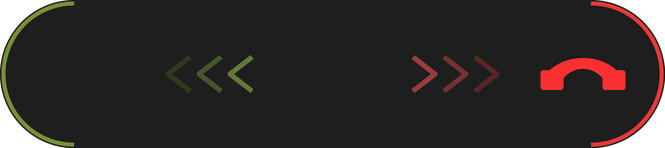
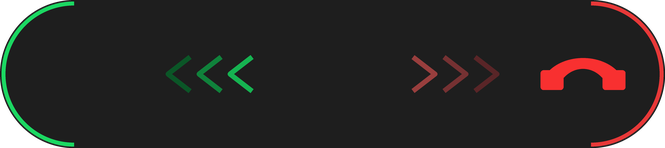
The call slider drags on its whole track, the call screen takes the primary colour (fix 7.4, 0.0.1.185)
On the Q10 the knob wouldn't slide: the drag is now the track's, with the knob's
implicit animation off and an explicit slide back, logged. The stock purple is
#1bd862's hue; ScalingMethod.Fill, refused on the phone, is AspectFit.

Claude-Session: https://claude.ai/code/session_01U6fsRnet8drYJdBsonSSBd

diff --git a/app/assets/CallSlider.qml b/app/assets/CallSlider.qml
@@ -11,6 +11,9 @@ Container {
     // Where the finger went down, in window px: the knob follows its distance from here, not the
     // finger's place on the knob, so it doesn't jump.
     property real startX: 0
+    // The knob's offset while dragged, kept here rather than read back from translationX.
+    property real at: 0
+    property bool dragging: false
     // The knob's centre to an end's icon is 260 px; it counts within 40 px of it.
     property real reach: px(260)
     property real grab: px(40)
@@ -23,7 +26,7 @@ Container {
     ImageView {
         preferredWidth: slider.px(665)
         preferredHeight: slider.px(148)
-        scalingMethod: ScalingMethod.Fill
+        scalingMethod: ScalingMethod.AspectFit
         imageSource: "asset:///images/call_track.png"
     }
     // The phone's own handset, tinted green (the track holds only the red one); 66 px centred
@@ -35,9 +38,9 @@ Container {
         }
         preferredWidth: slider.px(66)
         preferredHeight: slider.px(66)
-        scalingMethod: ScalingMethod.Fill
+        scalingMethod: ScalingMethod.AspectFit
         imageSource: "file:///usr/share/icons/ic_phone.png"
-        filterColor: Color.create("#709830")
+        filterColor: Color.create("#1bd862") // the primary colour, the user's ask (2026-11-07)
     }
     ImageView {
         id: knob
@@ -47,32 +50,43 @@ Container {
         }
         preferredWidth: slider.px(110)
         preferredHeight: slider.px(110)
-        scalingMethod: ScalingMethod.Fill
+        scalingMethod: ScalingMethod.AspectFit
         imageSource: "asset:///images/call_knob.png"
-        // Cascades animates every translationX change by itself, which would leave the knob
-        // trailing the finger: off while dragging, on again so a short release slides it back.
+        // No implicit animation of translationX, which would leave the knob trailing the finger;
+        // the slide back is the explicit one below.
         attachedObjects: ImplicitAnimationController {
-            id: follow
             propertyName: "translationX"
+            enabled: false
         }
-        onTouch: {
-            if (event.isDown()) {
-                follow.enabled = false
-                slider.startX = event.windowX
-            } else if (event.isMove()) {
-                knob.translationX = Math.max(-slider.reach, Math.min(slider.reach, event.windowX - slider.startX))
-            } else if (event.isUp() || event.isCancel()) {
-                var at = knob.translationX
-                follow.enabled = true
-                knob.translationX = 0
-                if (event.isCancel()) {
-                    return
-                }
-                if (at <= -(slider.reach - slider.grab)) {
-                    slider.answered()
-                } else if (at >= slider.reach - slider.grab) {
-                    slider.declined()
-                }
+        animations: TranslateTransition {
+            id: back
+            toX: 0
+            duration: 150
+        }
+    }
+    // The whole track takes the drag, not the knob: on the Q10 (0.0.1.184) the knob alone locked
+    // under the finger. Touches on the images bubble up to here, wherever on the track the finger
+    // goes. The knob follows the finger's distance from where it went down; the 220 px needed to
+    // reach an end are the guard against a brush in the pocket.
+    onTouch: {
+        if (event.isDown()) {
+            dragging = true
+            back.stop()
+            startX = event.windowX
+            console.log("call slider: down")
+        } else if (event.isMove() && dragging) {
+            at = Math.max(-reach, Math.min(reach, event.windowX - startX))
+            knob.translationX = at
+        } else if ((event.isUp() || event.isCancel()) && dragging) {
+            dragging = false
+            var end = event.isCancel() ? 0 : at
+            console.log("call slider: let go at " + Math.round(end) + (event.isCancel() ? " (cancelled)" : ""))
+            at = 0
+            back.play()
+            if (end <= -(reach - grab)) {
+                answered()
+            } else if (end >= reach - grab) {
+                declined()
             }
         }
     }

diff --git a/app/assets/CallSheet.qml b/app/assets/CallSheet.qml
@@ -142,7 +142,7 @@ Sheet {
         Container {
             horizontalAlignment: HorizontalAlignment.Fill
             verticalAlignment: VerticalAlignment.Fill
-            background: Color.create("#1b132a")
+            background: Color.create("#132a1c") // the stock #1b132a in the primary colour's hue
             layout: DockLayout {}
             Container {
                 horizontalAlignment: HorizontalAlignment.Center
@@ -153,7 +153,7 @@ Sheet {
                 ImageView {
                     preferredWidth: sheet.px(720)
                     preferredHeight: sheet.px(720)
-                    scalingMethod: ScalingMethod.Fill
+                    scalingMethod: ScalingMethod.AspectFit
                     imageSource: "asset:///images/call_bg.png"
                 }
                 // The picture fills the area above the controls and fades to black at its foot.
@@ -172,7 +172,7 @@ Sheet {
                     }
                     preferredWidth: sheet.px(720)
                     preferredHeight: sheet.px(260)
-                    scalingMethod: ScalingMethod.Fill
+                    scalingMethod: ScalingMethod.AspectFit
                     imageSource: "asset:///images/call_fade.png"
                 }
                 Label {
@@ -238,7 +238,7 @@ Sheet {
                 horizontalAlignment: HorizontalAlignment.Fill
                 verticalAlignment: VerticalAlignment.Top
                 preferredHeight: sheet.px(55)
-                background: Color.create("#0f0b19")
+                background: Color.create("#0b1910") // the stock #0f0b19 in the primary colour's hue
                 layout: DockLayout {}
                 Label {
                     verticalAlignment: VerticalAlignment.Center

diff --git a/app/assets/CallRinging.qml b/app/assets/CallRinging.qml
@@ -26,7 +26,7 @@ Container {
         ImageView {
             preferredWidth: ringing.px(104)
             preferredHeight: ringing.px(104)
-            scalingMethod: ScalingMethod.Fill
+            scalingMethod: ScalingMethod.AspectFit
             imageSource: "asset:///images/call_btn.png"
         }
         ImageView {
@@ -34,7 +34,7 @@ Container {
             verticalAlignment: VerticalAlignment.Center
             preferredWidth: ringing.px(50)
             preferredHeight: ringing.px(50)
-            scalingMethod: ScalingMethod.Fill
+            scalingMethod: ScalingMethod.AspectFit
             imageSource: "asset:///images/call_silence.png"
         }
         gestureHandlers: TapHandler {
@@ -55,7 +55,7 @@ Container {
         ImageView {
             preferredWidth: ringing.px(104)
             preferredHeight: ringing.px(104)
-            scalingMethod: ScalingMethod.Fill
+            scalingMethod: ScalingMethod.AspectFit
             imageSource: "asset:///images/call_btn.png"
         }
         ImageView {
@@ -63,7 +63,7 @@ Container {
             verticalAlignment: VerticalAlignment.Center
             preferredWidth: ringing.px(50)
             preferredHeight: ringing.px(50)
-            scalingMethod: ScalingMethod.Fill
+            scalingMethod: ScalingMethod.AspectFit
             imageSource: "asset:///images/call_message.png"
         }
         gestureHandlers: TapHandler {

diff --git a/app/assets/CallToggle.qml b/app/assets/CallToggle.qml
@@ -20,7 +20,7 @@ Container {
         verticalAlignment: VerticalAlignment.Center
         preferredWidth: toggle.px(50)
         preferredHeight: toggle.px(50)
-        scalingMethod: ScalingMethod.Fill
+        scalingMethod: ScalingMethod.AspectFit
         imageSource: toggle.icon
         filterColor: toggle.on ? ui.palette.primary : Color.White
     }

diff --git a/app/assets/CallPanel.qml b/app/assets/CallPanel.qml
@@ -59,7 +59,7 @@ Container {
             leftMargin: panel.px(14)
             preferredWidth: panel.px(62)
             preferredHeight: panel.px(22)
-            scalingMethod: ScalingMethod.Fill
+            scalingMethod: ScalingMethod.AspectFit
             imageSource: "asset:///images/call_end.png"
         }
         Label {

diff --git a/scripts/gen-call-images.py b/scripts/gen-call-images.py
@@ -7,6 +7,7 @@ call_end, which QML tints with ImageView.filterColor. Everything is drawn at 8x 
 Run by hand when one changes, in the image fetch-emoji.sh builds:
     docker run --rm -v "$PWD:/src" hyperberry-font python -I /src/scripts/gen-call-images.py /src/app/assets/images
 """
+import colorsys
 import sys
 
 from PIL import Image, ImageDraw, ImageFilter
@@ -70,26 +71,35 @@ SHADE = [(0, 0x45, 0x41, 0x52), (190, 0x45, 0x41, 0x52), (192, 0x43, 0x3f, 0x50)
          (368, 0x1e, 0x1d, 0x23), (384, 0x1a, 0x19, 0x1f)]
 
 
+def accent(rgb):
+    """The stock screen's purple turned to HyperBerry's primary colour, #1bd862 (the user's ask,
+    2026-11-07): its hue, with the stock colour's own saturation and brightness kept."""
+    h, s, v = colorsys.rgb_to_hsv(*[c / 255 for c in rgb])
+    hue = colorsys.rgb_to_hsv(0x1b / 255, 0xd8 / 255, 0x62 / 255)[0]
+    return tuple(c * 255 for c in colorsys.hsv_to_rgb(hue, s, v))
+
+
 def gradient(y):
     t = min(1, max(0, (y - 300) / 210))
-    return tuple(v * (1 - t) for v in (0x1b, 0x13, 0x2a))
+    return tuple(v * (1 - t) for v in accent((0x1b, 0x13, 0x2a)))
 
 
 def background(out):
-    """Flat #1b132a to y 300, linear to black at 510; the default-contact silhouette fades into it."""
+    """The stock #1b132a in the primary colour's hue, flat to y 300, then linear to black at 510; the
+    default-contact silhouette fades into it."""
     W = 720
     bg = Image.new("RGB", (W, W))
     sil = Image.new("RGB", (W, W))
     for y in range(W):
         g = gradient(y)
         if y < 384:
-            c = lerp(SHADE, y)
+            c = accent(lerp(SHADE, y))
         elif y < 400:  # into the background
             u = (y - 384) / 16
-            c = tuple(a + (b - a) * u for a, b in zip(lerp(SHADE, 384), g))
+            c = tuple(a + (b - a) * u for a, b in zip(accent(lerp(SHADE, 384)), g))
         else:  # the shoulders are only a hint
             k = min((y - 400) / 50, 1) * min(1, max(0, (520 - y) / 70))
-            c = tuple(a + k * h for a, h in zip(g, (13, 12, 16)))
+            c = tuple(a + k * h for a, h in zip(g, accent((13, 12, 16))))
         ImageDraw.Draw(bg).line((0, y, W, y), tuple(round(v) for v in g))
         ImageDraw.Draw(sil).line((0, y, W, y), tuple(round(v) for v in c))
     # The shape, fitted to the stock outline's rows: a flat-topped skull (190 px wide 9 px below
@@ -129,12 +139,12 @@ def track(out):
     W, H = 665, 148
     img, d = new(W, H)
     d.rounded_rectangle(sc(0, 0, W, H), 74 * S, hexa("#1e1e1e"))
-    green, red = hexa("#789038"), hexa("#e83838")
+    green, red = hexa("#1bd862"), hexa("#e83838")  # answer in the primary colour (the user's ask)
     d.arc(sc(1.5, 1.5, 146.5, 146.5), 90, 270, green, 4 * S)
     d.arc(sc(W - 146.5, 1.5, W - 1.5, 146.5), 270, 90, red, 4 * S)
     put(img, handset(85, 32, hexa("#f83030")), 583, 74)
     # Brighter toward the middle on the green side, dimmer away from it on the red.
-    chevrons(d, 168, ["#2e3a20", "#46552d", "#63773c"], True)
+    chevrons(d, 168, ["#0b5627", "#10823b", "#16b351"], True)  # the primary at 40, 60 and 83 %, as the stock's
     chevrons(d, 413, ["#983e3d", "#753132", "#592527"], False)
     save(img, out, "call_track")
 
